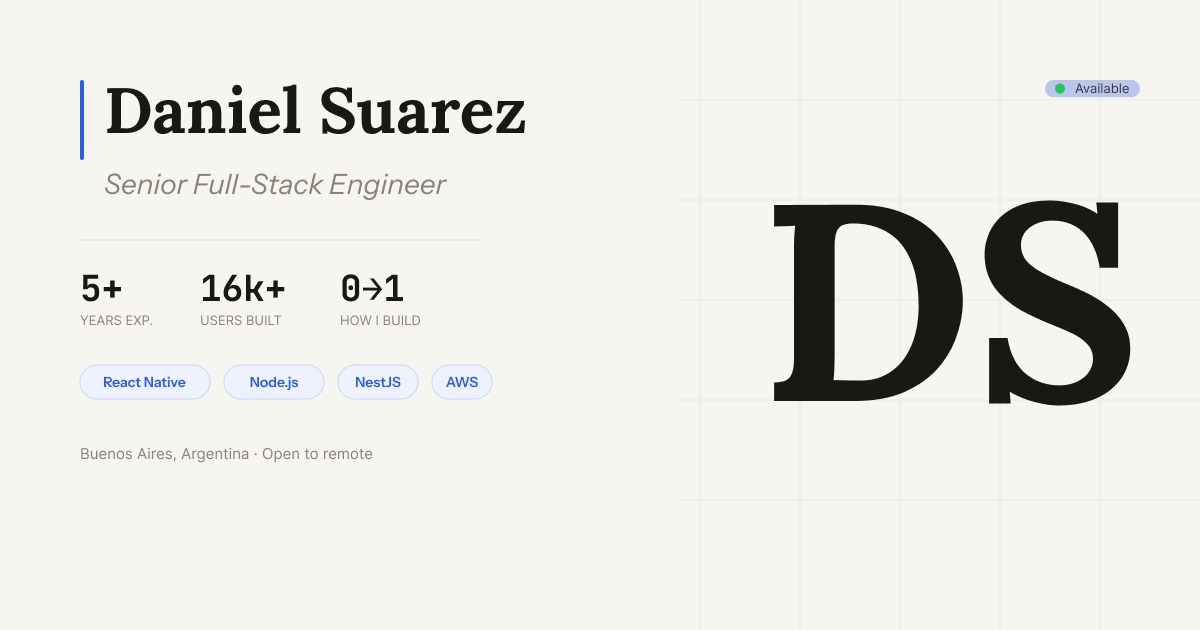
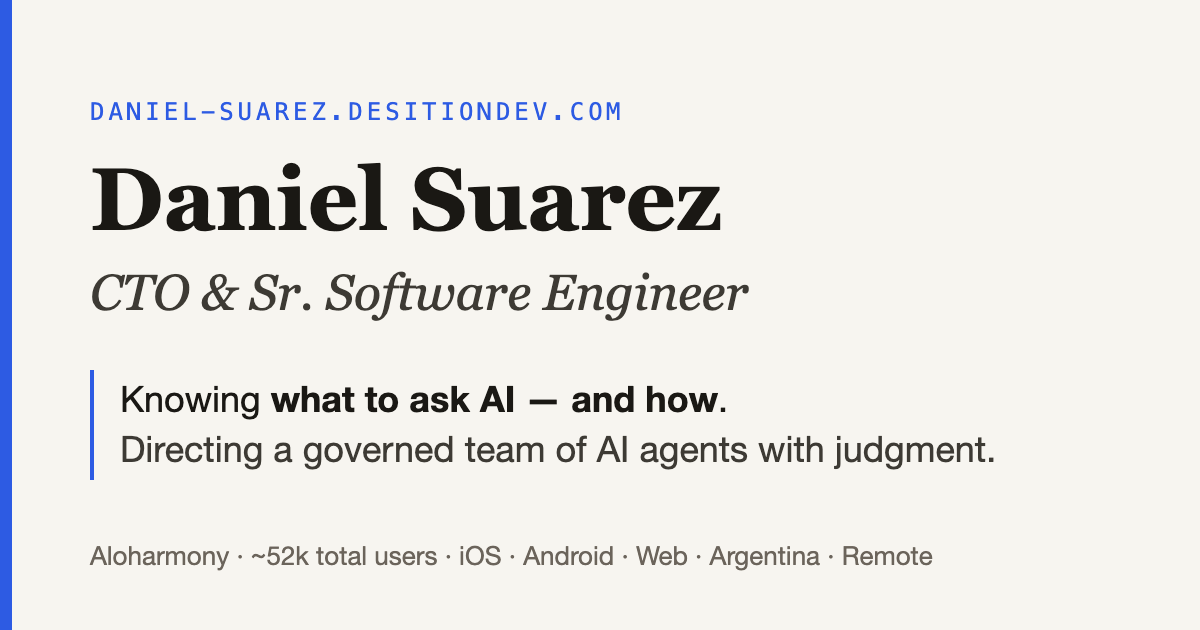
Portfolio: accurate users/DAU, Stripe+RevenueCat, AI models, Argentina remote, new OG image

diff --git a/src/data/cv.ts b/src/data/cv.ts
@@ -7,7 +7,7 @@ export const personal = {
   jobTitle: "CTO / Sr. Software Engineer",
   tagline: "I know what to ask AI — and how — to ship products people actually use.",
   summary:
-    "CTO / Sr. Software Engineer at Aloharmony, a therapeutic-music wellness app with ~52k users on iOS, Android and web. 6 years shipping web and mobile products across the full stack. My edge: broad, hands-on knowledge that lets me know what to ask AI and how — so I can direct a team of AI agents with real engineering judgment.",
+    "CTO / Sr. Software Engineer at Aloharmony, a therapeutic-music wellness app with ~52k total users and ~5k daily active users on iOS, Android and web. Remote from Argentina; 6 years shipping web and mobile products across the full stack. My edge: broad, hands-on knowledge that lets me know what to ask AI and how — so I can direct a team of AI agents with real engineering judgment.",
   location: "Buenos Aires, Argentina",
   timezone: "UTC-3",
   email: "info@desitiondev.com",
@@ -25,7 +25,7 @@ export const experience = [
   {
     role: "Sr. Software Engineer / CTO",
     company: "Aloharmony",
-    location: "USA",
+    location: "Argentina · Remote",
     period: "Oct 2024 – Present",
     current: true,
     bullets: [
@@ -55,7 +55,7 @@ export const experience = [
   {
     role: "Full Stack Developer",
     company: "Thought Media",
-    location: "USA",
+    location: "Argentina · Remote",
     period: "Jan 2021 – Jan 2022",
     current: false,
     bullets: [
@@ -111,7 +111,7 @@ export const aloharmony = {
   name: "Aloharmony",
   url: "https://aloharmony.com",
   description:
-    "Wellness app with therapeutic music, ~52k users across iOS, Android and web.",
+    "Wellness app with therapeutic music: ~52k total users and ~5k daily active users across iOS, Android and web.",
   users: "~52k",
   platforms: ["iOS", "Android", "Web"],
 };
@@ -120,14 +120,14 @@ export const achievements = [
   {
     title: "Store-compliant monetization",
     result:
-      "Split purchase flows between the new web app and a store-compliant payment gateway, so users can buy where it suits them without breaking App Store / Google Play rules.",
-    tags: ["Payments", "RevenueCat", "Compliance"],
+      "Split purchase flows between the new web app and a store-compliant payment gateway, so users can buy where it suits them without breaking App Store / Google Play rules — powered by Stripe and RevenueCat.",
+    tags: ["Stripe", "RevenueCat", "Compliance"],
   },
   {
     title: "Free trial, cross-platform",
     result:
       "Launched the free-trial experience end-to-end, giving new users a frictionless way to try the product before subscribing.",
-    tags: ["RevenueCat", "Growth"],
+    tags: ["RevenueCat", "Stripe", "Growth"],
   },
   {
     title: "New web app, end-to-end",
@@ -150,7 +150,7 @@ export const achievements = [
   {
     title: "Partner integrations",
     result:
-      "Built partner integrations that open new distribution channels for the product.",
+      "Built integrations with partner platforms that open new distribution channels for the product.",
     tags: ["Integrations", "APIs"],
   },
   {
@@ -174,8 +174,8 @@ export const achievements = [
   {
     title: "AI image generation on-brand",
     result:
-      "Built AI image generation grounded in the design system, producing on-brand visuals for content at scale.",
-    tags: ["Generative AI", "Design system"],
+      "Built AI image generation grounded in the design system — Google Gemini with Nano Banana for images and Veo for video — producing on-brand visuals for content.",
+    tags: ["Gemini", "Nano Banana", "Veo", "Design system"],
   },
 ];
 
@@ -184,6 +184,14 @@ export const aiMethod = {
   headline: "Knowing what to ask AI — and how.",
   intro:
     "I run Aloharmony's platform with a team of ~10 AI agents working 24/7. The value isn't the agents; it's the judgment directing them. Broad, hands-on knowledge across product, code, infrastructure, data and growth lets me know what to ask, how to ask it, and when an answer is wrong.",
+  models: [
+    { name: "OpenAI", use: "language models" },
+    { name: "Anthropic", use: "language models" },
+    { name: "Grok", use: "language models (latest current model)" },
+    { name: "Google Gemini", use: "Google model family" },
+    { name: "Nano Banana", use: "image generation (Google)" },
+    { name: "Veo", use: "video generation (Google)" },
+  ],
   roles: ["Development", "QA", "Project management", "Product ownership", "UX", "Marketing", "Support", "Finance"],
   governance: [
     { title: "Human approval", text: "Nothing is published, spent or deleted without my explicit sign-off." },
@@ -196,7 +204,7 @@ export const aiMethod = {
 export const faq = [
   {
     q: "Who is Daniel Suarez?",
-    a: "Daniel Suarez is a CTO / Sr. Software Engineer based in Buenos Aires, Argentina. He leads technology at Aloharmony, a wellness app with therapeutic music used by ~52k people on iOS, Android and web, and founded the DesitionDev product studio.",
+    a: "Daniel Suarez is a CTO / Sr. Software Engineer based in Buenos Aires, Argentina, working remotely. He leads technology at Aloharmony, a wellness app with therapeutic music with ~52k total users and ~5k daily active users on iOS, Android and web, and founded the DesitionDev product studio.",
   },
   {
     q: "What makes Daniel Suarez different as an engineer?",
@@ -204,15 +212,15 @@ export const faq = [
   },
   {
     q: "How does Daniel Suarez work with AI agents?",
-    a: "He runs a team of ~10 AI agents — development, QA, project management, product ownership, UX, marketing, support and finance — working 24/7 under governance: human approval to publish, spend or delete; mandatory QA with evidence; security review; and automated tests.",
+    a: "He runs a team of ~10 AI agents — development, QA, project management, product ownership, UX, marketing, support and finance — working 24/7 under governance: human approval to publish, spend or delete; mandatory QA with evidence; security review; and automated tests. He works with language models from OpenAI, Anthropic, Grok and Google Gemini, plus Nano Banana for image generation and Veo for video.",
   },
   {
     q: "What did Daniel Suarez achieve at Aloharmony between 2024 and 2026?",
-    a: "He split purchase flows between a new web app and a store-compliant payment gateway, launched a free trial with RevenueCat, built the new web app end-to-end, migrated microservices to a monolith, shipped app v4 and v5 with a visual redesign, added partner integrations, SEO/GEO, an in-house API and CRM, Metabase, an events system on Kafka, content management and on-brand AI image generation.",
+    a: "He split purchase flows between a new web app and a store-compliant payment gateway, launched a free trial with RevenueCat, built the new web app end-to-end, migrated microservices to a monolith, shipped app v4 and v5 with a visual redesign, added partner integrations, SEO/GEO, an in-house API and CRM, Metabase, an events system on Kafka, content management and on-brand AI image generation with Gemini (Nano Banana for images, Veo for video).",
   },
   {
     q: "What is Daniel Suarez's tech stack?",
-    a: "React, Next.js, Astro, React Native and Expo on the front end; Node.js, NestJS, GraphQL and REST on the back end; AWS, Docker and Redis for infrastructure; Kafka and Metabase for events and analytics; Stripe and RevenueCat for payments.",
+    a: "React, Next.js, Astro, React Native and Expo on the front end; Node.js, NestJS, GraphQL and REST on the back end; AWS, Docker and Redis for infrastructure; Kafka and Metabase for events and analytics; Stripe and RevenueCat for payments; OpenAI, Anthropic, Grok and Google Gemini (Nano Banana, Veo) for AI.",
   },
   {
     q: "Is Daniel Suarez available for work?",
